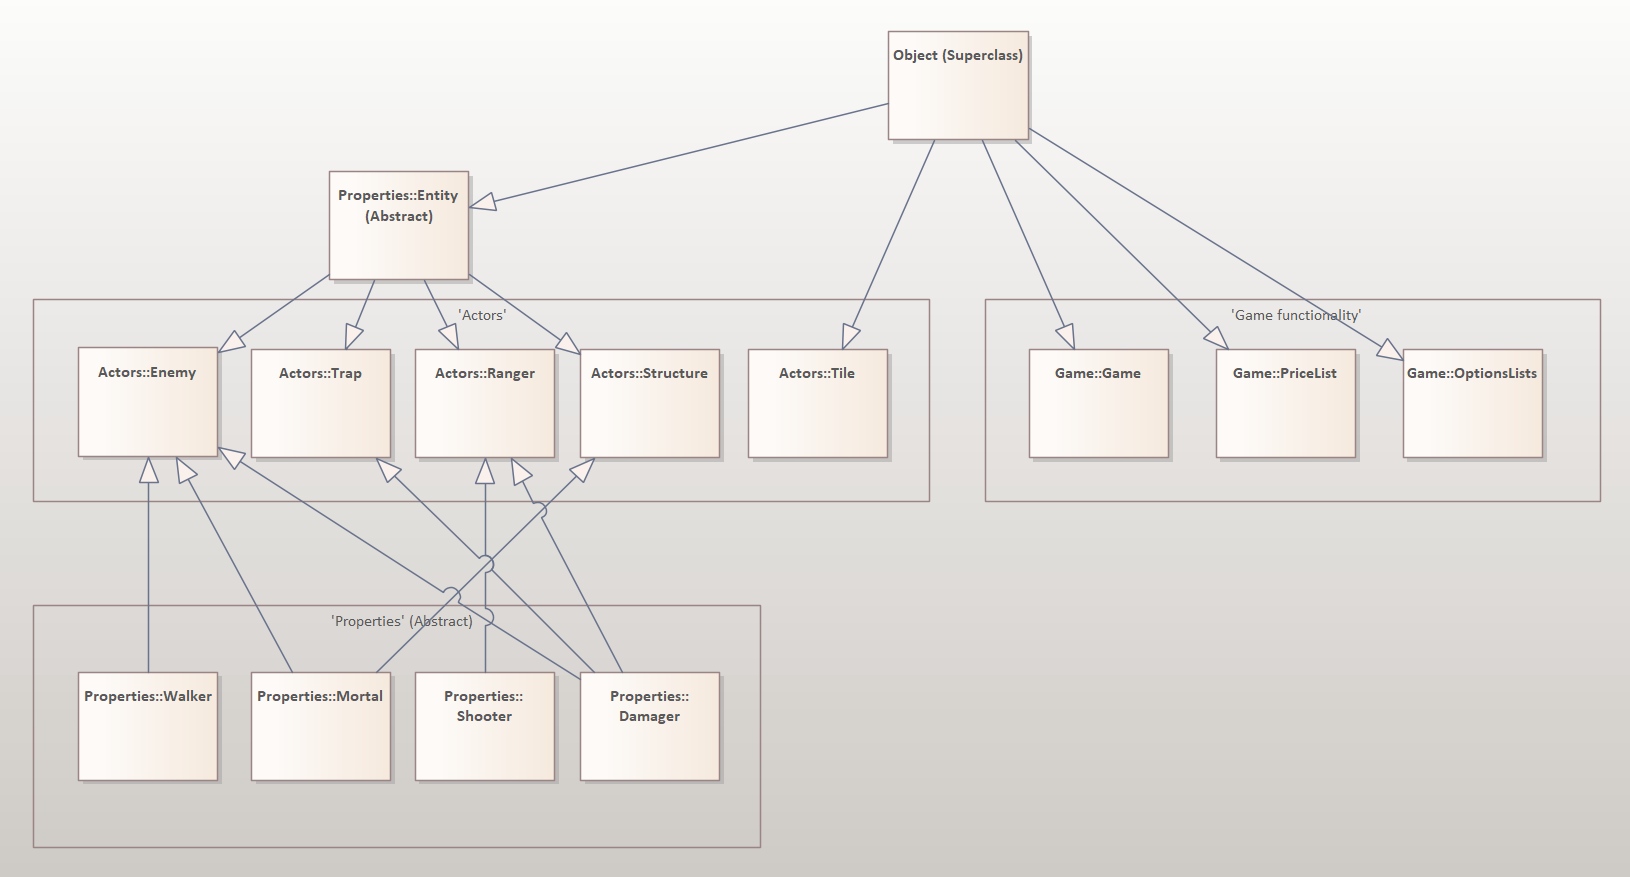
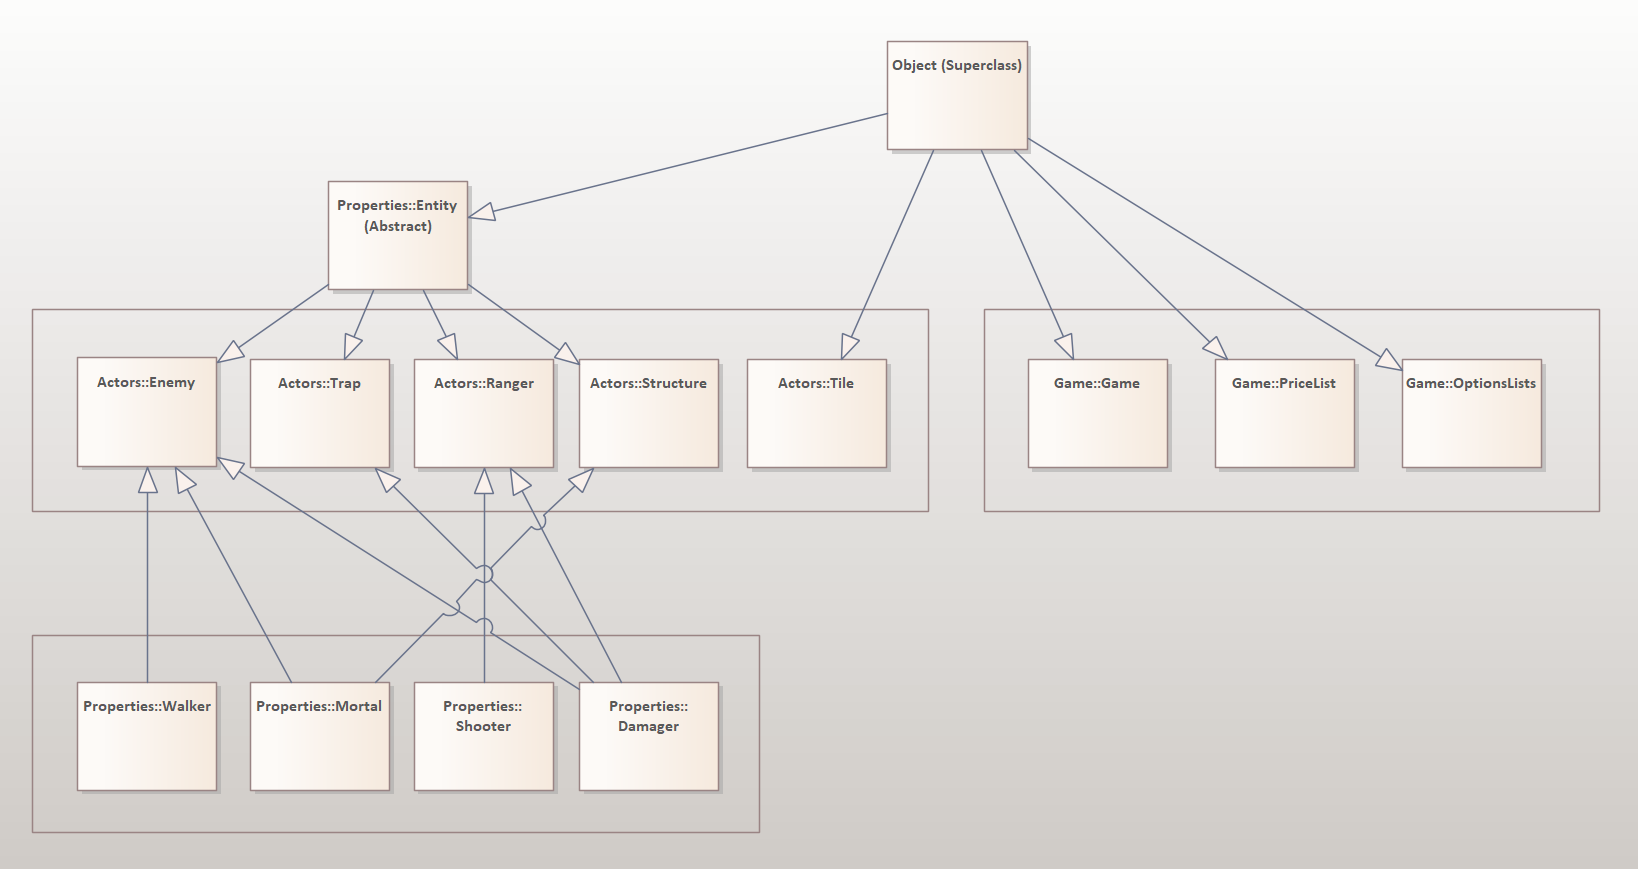
Updated materials and the README.md

diff --git a/README.md b/README.md
@@ -1,5 +1,24 @@
 # OOP-Lab-Project (L2-3)
+<br>
 At the time of editing this file, we are facing <b>2 tasks</b>:<br>
-	<b>1.</b> (L2) Creation of <b>10 classes</b> (taking into account <b>encapsulation</b>) that will <u>represent actors in a simulation</u>;<br>
-	<b>2.</b> (L3) Create relatively <b>complex inheritance chains<b> that will contain examples of <b>two-level inheritance</b> and <b>multiple inheritance</b>. 
-
+<b>1.</b> (L2) Creation of <b>10 classes</b> (taking into account <b>encapsulation</b>) that will <u>represent actors in a simulation</u>;<br>
+<b>2.</b> (L3) Create relatively <b>complex inheritance chains<b> that will contain examples of <b>two-level inheritance</b> and <b>multiple inheritance</b>. 
+<br>
+I chose a simulation somewhat similar to <b>a tower defense</b>, but with some more complex mechanics.<br>
+<b>The purpose of the game</b>: <b>to prevent opponents</b> (within the lore: wolves, werewolves, etc.) <b>from<br> 
+reaching the goal located in any place on the map (9 * 9 at the moment)</b> (within the lore - a house). Unlike a traditional tower<br> 
+defenses in this simulation: the opponents themselves find the route based on the structure of the playing field;<br> 
+most defensive units are designed to be installed directly in the path of movement and not on the side of the road.
+<br>
+<b>Realisation</b>:
+<br>
+![Class Diagram](class_diagram.jpg)
+<br>
+I have created <b>14 classes</b> organized in the above structure.<br>
+All classes can be defined in <b>3 groups (+ superclass)</b>:
+<b>1.</b><i>'Actors'</i>: entities inside the simulation in which <b>the parameters</b> of the creatures and <b>the methods</b><br>
+by which they interact with the game and with each other are declared.
+<b>2.</b><i>'Properties'</i>: These are abstract classes in which <b>parameters and some methods are embedded</b>,<br>
+which will be used by 'actors' as a result of <b>inheritance</b>.
+<b>3.</b><i>'Game functionality'</i>: These classes declare methods for working with the console, <b>game constants</b>,<br>
+<b>statistics</b>, and so on.
